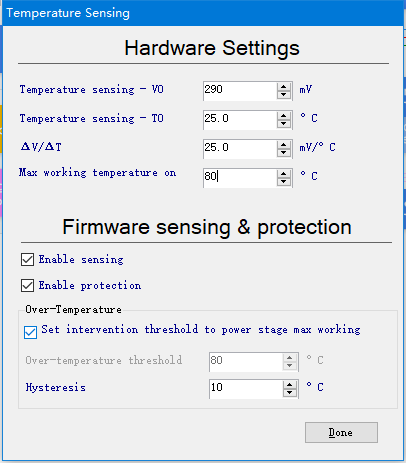
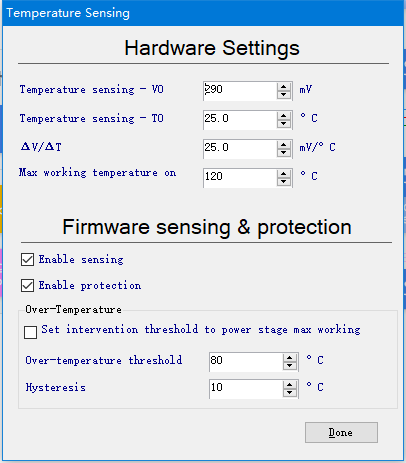
增加st上位机控制电机使用部分教程

diff --git a/improve_part/X-CUBE-MCSDK_installation_use.rst b/improve_part/X-CUBE-MCSDK_installation_use.rst
@@ -136,7 +136,7 @@ ST Motor Control Workbench 的使用
 新建项目
 ^^^^^^^^^^^^^^^^^^^^^^^^^^^^^^^^^
 
-以下示例工程在\base_code\improve_part\BLDC_FOC_V5.44_Hall_speed_control目录下。
+以下示例工程在\\base_code\\improve_part\\BLDC_FOC_V5.44_Hall_speed_control目录下。
 
 下图是双击MotorControl Workbench 5.4.4打开的界面，整个界面可以分为3个部分。
 
@@ -234,7 +234,7 @@ ST Motor Control Workbench 的使用
    :alt: MOS管参数配置
 
 如下图所示在这里可以设置死区时间和 MOS 管的最大开关频率，从数据手册中可以知道我们使用的 MOS
-管设置为100ns就可以。
+管死区时间设置为100ns就可以。
 
 .. image:: ../media/st_foc/Power_Stage-Power_Switches.png
    :align: center
@@ -255,7 +255,7 @@ ST Motor Control Workbench 的使用
 点击 Temperature Sensing 可以设置温度传感器相关参数，如下图所示。
 不过该配置只支持 ST 的温度传感器，因此这里我们只要设置好温度范围就可以了，
 其他参数可以不管，具体的温度获取函数需要我们根据配套的传感器来实现。
-这里设置传感器最采集温度为120℃，然后使能传感器和温度保护，并将温度最大保护电压设置为80℃。
+这里设置传感器最高采集温度为120℃，然后使能传感器和温度保护，并将温度最大保护电压设置为80℃。
 
 .. image:: ../media/st_foc/Temperature_Sensing.png
    :align: center
@@ -309,7 +309,7 @@ ST Motor Control Workbench 的使用
    :align: center
    :alt: 固件保护配置
 
-** FreeRTOS **
+**FreeRTOS**
 
 点击 Fimware Drive Management 后，选择 FreeRTOS，如下图所示，
 这里可以选择是否启用 FreeRTOS 操作系统，这里我们不需要就不启用了。
@@ -381,7 +381,7 @@ Start/Stop Button 选择使能，Serial Communication 中使能串口，使用 B
 
 点击 Pin assignment 可以查看引脚的分配，Check 可以检查引脚是否有冲突，在检查OK后配置工作就完成了。
 
-.. image:: ../media/st_foc/AC_Inof_input.png
+.. image:: ../media/st_foc/Pin_assignment.png
    :align: center
    :alt: 引脚分配与检查
 
@@ -430,7 +430,7 @@ Start/Stop Button 选择使能，Serial Communication 中使能串口，使用 B
 官方的 SDK 中函数都使用了 **__weak** 关键字，所以我们可以不改动源码，直接重新实现需要修改的函数就可以了，
 在电压部分共有两个函数需要重新实现，分别是 **uint16_t VBS_GetAvBusVoltage_V( BusVoltageSensor_Handle_t * pHandle )** 和
 **uint16_t RVBS_CheckFaultState( RDivider_Handle_t * pHandle )**，我们重新创建新建的源码文件，
-和SDK的命名基本一样只是在前面增加一个 **yh_** 前缀用于区分。新建的文件都放到了 **\USER\YH_MotorControl** 目录下，
+和SDK的命名基本一样只是在前面增加一个 **yh_** 前缀用于区分。新建的文件都放到了 **\\USER\\YH_MotorControl** 目录下，
 在yh_bus_voltage_sensor.c中增加VBS_GetAvBusVoltage_V函数源码如下：
 
 .. code-block:: c
@@ -643,3 +643,34 @@ Start/Stop Button 选择使能，Serial Communication 中使能串口，使用 B
 .. image:: ../media/st_foc/monitor.png
    :align: center
    :alt: 监视器
+
+连接到开发板后，可以通过 Start Motor 和 Stop Motor 来启动和停止电机，
+可以通过速度旋钮来调节目标速度，或者通过旋钮下方的编辑框来调节目标速度，
+编辑好后回车就可以发送目标速度。
+
+可以通过速度表盘来观察速度值，也可以通过 plotting 来观察实际速度与目标速度的关系，如下图所示。
+
+.. image:: ../media/st_foc/Plotting-Speed_measured_and_Speed_reference.png
+   :align: center
+   :alt: 速度观察曲线
+
+状态指示灯有3种颜色：
+
+- 绿色：正常状态
+- 红色：故障产生，并且没有被排除
+- 黄色：故障产生，但是已经被排除
+
+当故障故障产生时，对应的故障灯也会亮起，此时电机不能启动，需我们排除故障后才能启动电机。
+如下图所示，电机驱动板电压过低发生欠压故障，此时欠压故障灯和状态指示灯都为红色。
+
+.. image:: ../media/st_foc/fault_now_under_voltage.png
+   :align: center
+   :alt: 欠压故障
+
+如下图所示，当我们将电压调整为正常值后，欠压故障灯和状态指示灯都为黄色，此时可以电机 Fault Ack
+来确认这个故障已经解决，这样就可以正常的启动电机了。
+
+.. image:: ../media/st_foc/fault_over_under_voltage.png
+   :align: center
+   :alt: 欠压故障被排除
+
